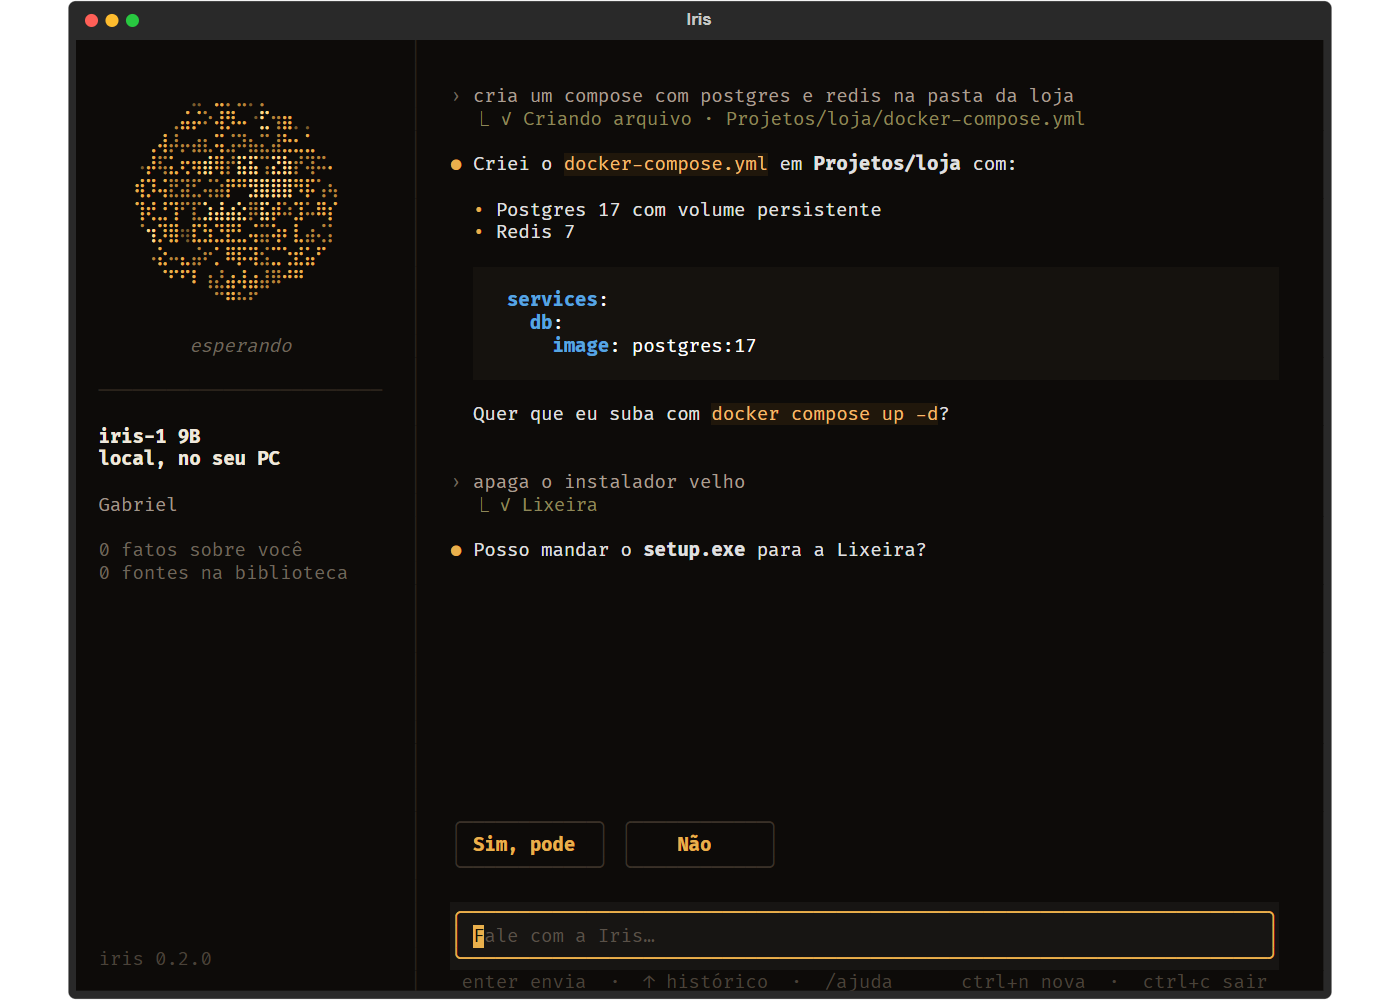
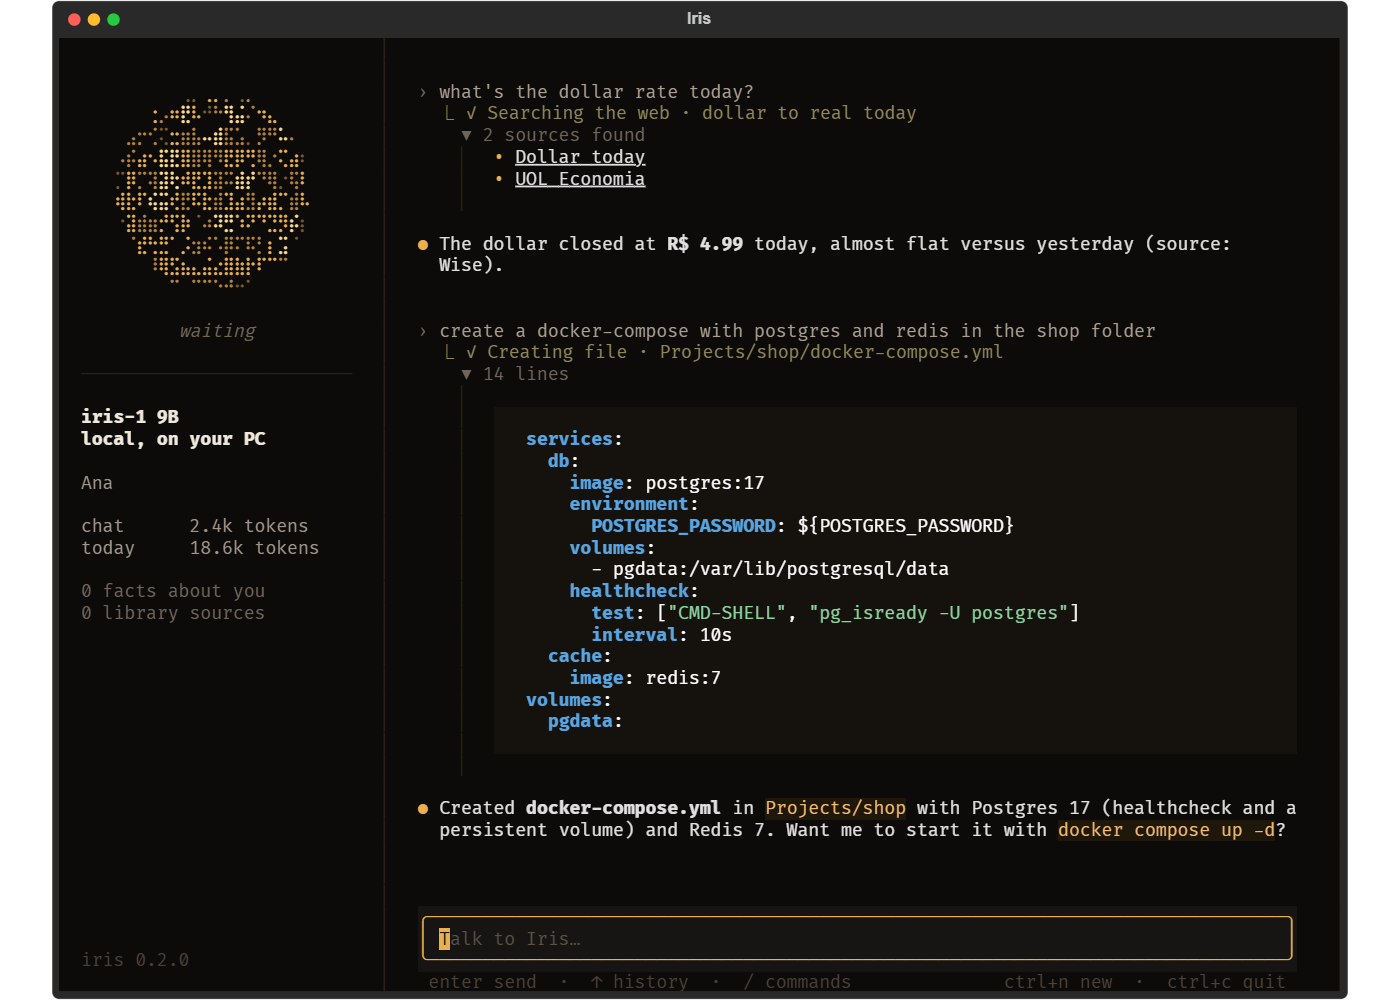
Prévias das ações no terminal e nova imagem do README

diff --git a/src/iris/tui/previews.py b/src/iris/tui/previews.py
@@ -1,0 +1,61 @@
+from __future__ import annotations
+
+import re
+from pathlib import PurePath
+
+from textual.widgets import Collapsible, Markdown
+
+from iris.i18n import tr
+
+MAX_LINES = 18
+LANGUAGES = {
+    ".yml": "yaml", ".yaml": "yaml", ".py": "python", ".js": "javascript", ".ts": "typescript", ".tsx": "tsx",
+    ".json": "json", ".md": "markdown", ".sh": "bash", ".ps1": "powershell", ".sql": "sql", ".html": "html",
+    ".css": "css", ".toml": "toml", ".ini": "ini", ".cs": "csharp", ".java": "java", ".go": "go", ".env": "bash",
+}
+NAMED = {"dockerfile": "dockerfile", "makefile": "makefile", "docker-compose.yml": "yaml"}
+HIT = re.compile(r"^(?P<title>.+?) - (?P<url>https?://\S+)$")
+
+
+def language_of(path: str) -> str:
+    name = PurePath(path.replace("\\", "/")).name.lower()
+    return NAMED.get(name) or LANGUAGES.get(PurePath(name).suffix, "text")
+
+
+def trimmed(text: str, language: str) -> tuple[str, str]:
+    lines = text.rstrip().splitlines()
+    shown = "\n".join(lines[:MAX_LINES]).replace("```", "```")
+    extra = len(lines) - MAX_LINES
+    more = f"\n\n{tr(language, 'preview.more', count=extra)}" if extra > 0 else ""
+    return shown, more
+
+
+def fence(text: str, code_language: str, language: str) -> str:
+    shown, more = trimmed(text, language)
+    return f"```{code_language}\n{shown}\n```{more}"
+
+
+def preview_for(call, result, language: str) -> Collapsible | None:
+    if result.is_error:
+        return None
+    content = result.content or ""
+    if call.name == "write_file":
+        path = str(call.input.get("path", ""))
+        body = fence(str(call.input.get("content", "")), language_of(path), language)
+        lines = len(str(call.input.get("content", "")).splitlines())
+        return Collapsible(Markdown(body), title=tr(language, "preview.lines", count=lines), collapsed=False, classes="preview")
+    if call.name == "run_command":
+        output = re.sub(r"^Exit code 0\n?", "", content).strip()
+        if not output or output.startswith("Not run yet"):
+            return None
+        return Collapsible(Markdown(fence(output, "text", language)), title=str(call.input.get("command", ""))[:80], collapsed=False, classes="preview")
+    if call.name == "web_search":
+        hits = [HIT.match(line.strip()) for line in content.splitlines()]
+        items = [f"- [{m['title'][:90]}]({m['url']})" for m in hits if m][:6]
+        if not items:
+            return None
+        return Collapsible(Markdown("\n".join(items)), title=tr(language, "preview.sources", count=len(items)), collapsed=False, classes="preview")
+    if call.name in ("read_file", "list_folder", "find_files", "search_library"):
+        code_language = language_of(str(call.input.get("path", ""))) if call.name == "read_file" else "text"
+        return Collapsible(Markdown(fence(content, code_language, language)), title=tr(language, "preview.result"), collapsed=True, classes="preview")
+    return None

diff --git a/tests/test_previews.py b/tests/test_previews.py
@@ -1,0 +1,35 @@
+from iris.domain.models import ToolCall, ToolResult
+from iris.tui.previews import language_of, preview_for
+
+
+
+def test_language_from_file_name():
+    assert language_of("Projetos/loja/docker-compose.yml") == "yaml"
+    assert language_of("C:\app\Dockerfile") == "dockerfile"
+    assert language_of("script.ps1") == "powershell"
+    assert language_of("notes") == "text"
+
+
+def test_write_file_shows_the_content_expanded():
+    call = ToolCall("1", "write_file", {"path": "loja/docker-compose.yml", "content": "services:\n  db:\n    image: postgres:17\n"})
+    preview = preview_for(call, ToolResult("1", "Wrote 3 lines"), "en")
+    assert preview is not None and not preview.collapsed and preview.title == "3 lines"
+
+
+def test_long_files_are_trimmed():
+    from iris.tui.previews import fence
+
+    body = fence("\n".join(f"line {i}" for i in range(40)), "text", "en")
+    assert "line 17" in body and "line 18" not in body and "22 more lines" in body
+
+
+def test_web_search_lists_sources():
+    content = "Dólar hoje - https://wise.com/br\nCotação do dia\n\nUOL Economia - https://economia.uol.com.br\nDólar"
+    preview = preview_for(ToolCall("2", "web_search", {"query": "dólar"}), ToolResult("2", content), "pt")
+    assert preview is not None and preview.title == "2 fontes encontradas"
+
+
+def test_errors_and_pending_commands_have_no_preview():
+    assert preview_for(ToolCall("3", "write_file", {"path": "x"}), ToolResult("3", "Failed", is_error=True), "en") is None
+    pending = ToolResult("4", "Not run yet. Ask the user if you may run: rm x. Confirmation code: ab12")
+    assert preview_for(ToolCall("4", "run_command", {"command": "rm x"}), pending, "en") is None

diff --git a/src/iris/i18n.py b/src/iris/i18n.py
@@ -5,6 +5,10 @@ ANSWER_LANGUAGE = {"en": "English", "pt": "Brazilian Portuguese"}
 
 STRINGS: dict[str, dict[str, str]] = {
     "en": {
+        "preview.more": "… {count} more lines",
+        "preview.lines": "{count} lines",
+        "preview.sources": "{count} sources found",
+        "preview.result": "show the result",
         "key.status": "API keys (stored in the Windows Credential Manager)",
         "key.set": "configured",
         "key.unset": "not set",
@@ -122,6 +126,10 @@ STRINGS: dict[str, dict[str, str]] = {
         "tool.start_code_change": "Changing her own code",
     },
     "pt": {
+        "preview.more": "… mais {count} linhas",
+        "preview.lines": "{count} linhas",
+        "preview.sources": "{count} fontes encontradas",
+        "preview.result": "ver o resultado",
         "key.status": "Chaves de API (guardadas no Gerenciador de Credenciais do Windows)",
         "key.set": "configurada",
         "key.unset": "não configurada",

diff --git a/src/iris/tui/app.py b/src/iris/tui/app.py
@@ -435,9 +435,14 @@ class IrisApp(App):
         self.mount_message(line)
 
     def end_tool(self, call, result) -> None:
+        from iris.tui.previews import preview_for
+
         line = self.tools.pop(call.id, None)
         if line:
             line.finish(not result.is_error)
+            preview = preview_for(call, result, self.language)
+            if preview is not None:
+                self.log_widget().mount(preview, after=line)
         if "Confirmation code" in result.content:
             self.awaiting_confirmation = True
         self.set_state("thinking")
